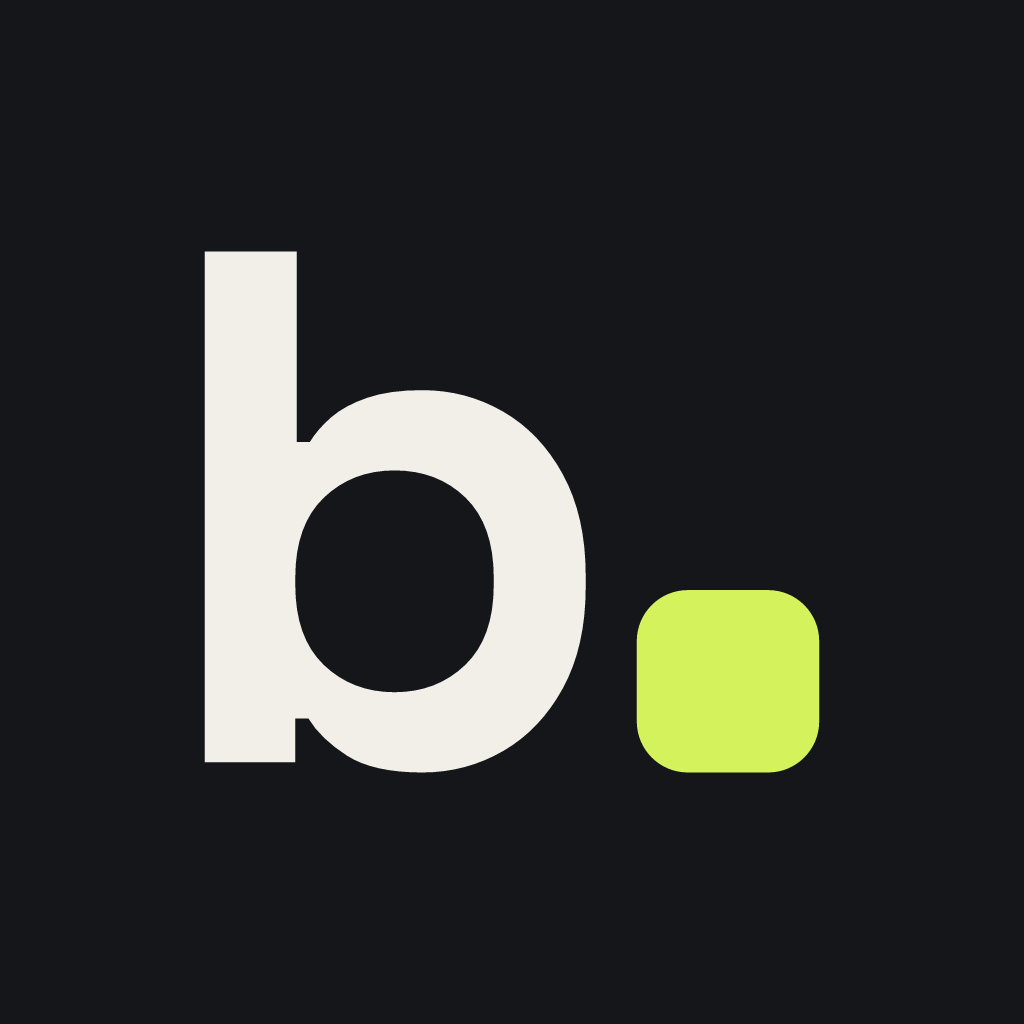
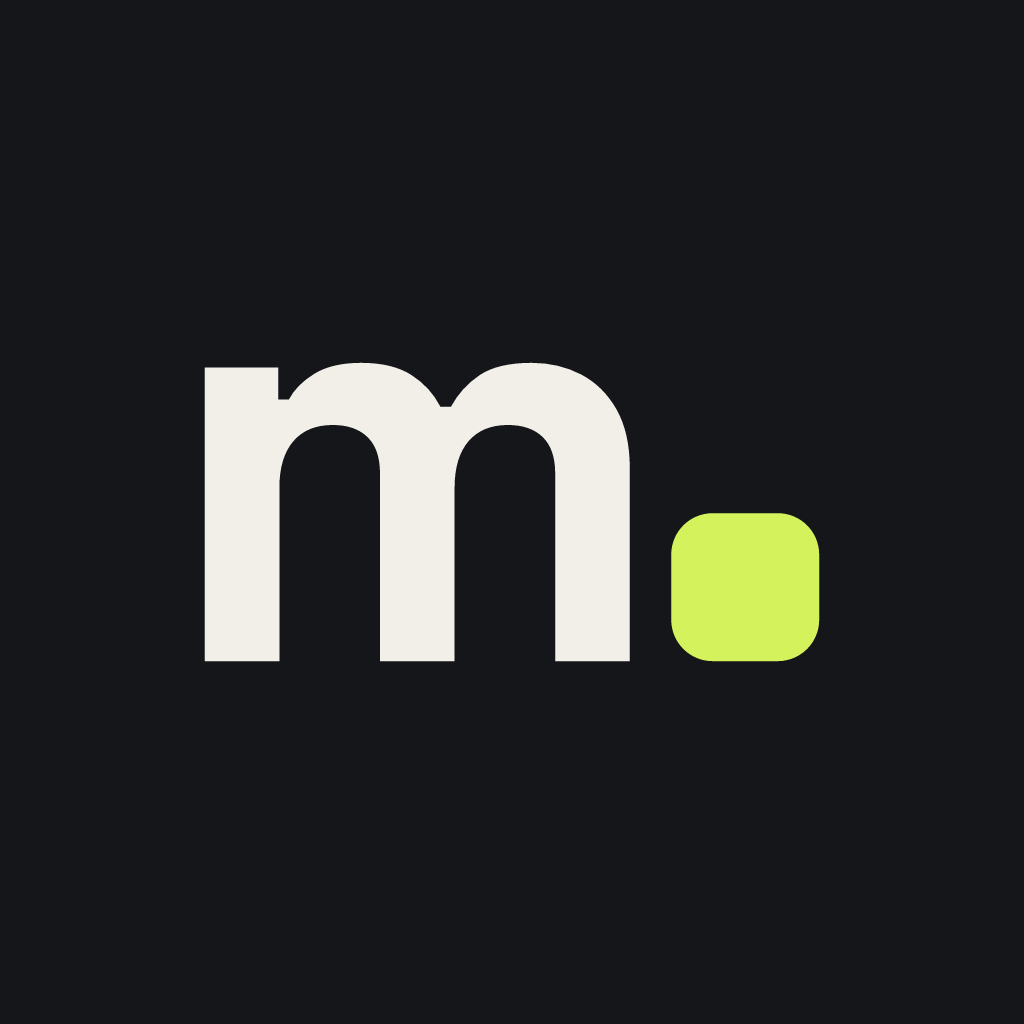
Renombrar a Multiwallet

Changed region(s): [[0.1875, 0.2188, 0.8125, 0.7812]]

diff --git a/terms.html b/terms.html
@@ -3,10 +3,10 @@
 <head>
 <meta charset="utf-8">
 <meta name="viewport" content="width=device-width, initial-scale=1">
-<title>Terms of Use · Buras</title>
-<meta name="title-en" content="Terms of Use · Buras">
-<meta name="title-es" content="Términos de uso · Buras">
-<meta name="description" content="Terms of use of the Buras app.">
+<title>Terms of Use · Multiwallet</title>
+<meta name="title-en" content="Terms of Use · Multiwallet">
+<meta name="title-es" content="Términos de uso · Multiwallet">
+<meta name="description" content="Terms of use of the Multiwallet app.">
 <link rel="icon" href="favicon.png">
 <link rel="preconnect" href="https://fonts.googleapis.com">
 <link rel="preconnect" href="https://fonts.gstatic.com" crossorigin>
@@ -17,7 +17,7 @@
 <body>
 <div class="wrap">
   <header class="site">
-    <a class="logo" href="./">buras</a>
+    <a class="logo" href="./">multiwallet</a>
     <nav>
       <a href="privacy.html"><span lang="en">Privacy</span><span lang="es">Privacidad</span></a>
       <a href="support.html"><span lang="en">Support</span><span lang="es">Soporte</span></a>
@@ -35,13 +35,13 @@
         <h1>Terms of Use</h1>
         <p class="meta">Effective date: November 3, 2026</p>
 
-        <p>These terms govern your use of the Buras app ("Buras", "the app"), developed by Nicolas Seura. By creating an account or using the app you accept them. If you downloaded Buras from the App Store, Apple's <a href="https://www.apple.com/legal/internet-services/itunes/dev/stdeula/">Standard End User License Agreement</a> also applies.</p>
+        <p>These terms govern your use of the Multiwallet app ("Multiwallet", "the app"), developed by Nicolas Seura. By creating an account or using the app you accept them. If you downloaded Multiwallet from the App Store, Apple's <a href="https://www.apple.com/legal/internet-services/itunes/dev/stdeula/">Standard End User License Agreement</a> also applies.</p>
 
         <h2>1. The service</h2>
-        <p>Buras is a tool to record and organise your personal finances: accounts in several currencies, transactions, transfers, categories, budgets and spending plans. The app is currently free of charge.</p>
+        <p>Multiwallet is a tool to record and organise your personal finances: accounts in several currencies, transactions, transfers, categories, budgets and spending plans. The app is currently free of charge.</p>
 
         <h2>2. Not financial advice</h2>
-        <p>Buras is an organisational tool. Nothing in the app — including the suggested 50/30/20 split — is financial, tax or investment advice. Decisions about your money are yours.</p>
+        <p>Multiwallet is an organisational tool. Nothing in the app — including the suggested 50/30/20 split — is financial, tax or investment advice. Decisions about your money are yours.</p>
 
         <h2>3. Exchange rates and figures</h2>
         <p>Exchange rates come from a third-party provider, are updated daily and are shown for reference only; they may differ from the rates applied by your bank. All balances and statistics are calculated from the data you enter, so their accuracy depends on it.</p>
@@ -54,16 +54,16 @@
         </ul>
 
         <h2>5. Acceptable use</h2>
-        <p>Do not use Buras for illegal purposes, try to access other users' data, interfere with the service or reverse-engineer it. We may suspend accounts that break these rules.</p>
+        <p>Do not use Multiwallet for illegal purposes, try to access other users' data, interfere with the service or reverse-engineer it. We may suspend accounts that break these rules.</p>
 
         <h2>6. Your data</h2>
         <p>Your data belongs to you. How we handle it is explained in our <a href="privacy.html">Privacy Policy</a>.</p>
 
         <h2>7. Availability and changes</h2>
-        <p>We work to keep Buras available and reliable, but we cannot guarantee uninterrupted operation. We may update, change or discontinue features. If we ever discontinue the service, we will give reasonable notice so you can export or note down your data.</p>
+        <p>We work to keep Multiwallet available and reliable, but we cannot guarantee uninterrupted operation. We may update, change or discontinue features. If we ever discontinue the service, we will give reasonable notice so you can export or note down your data.</p>
 
         <h2>8. Liability</h2>
-        <p>Buras is provided "as is". To the extent permitted by law, we are not liable for indirect losses or for decisions made based on the information shown in the app. Nothing in these terms limits liability that cannot be limited by law, nor your rights as a consumer.</p>
+        <p>Multiwallet is provided "as is". To the extent permitted by law, we are not liable for indirect losses or for decisions made based on the information shown in the app. Nothing in these terms limits liability that cannot be limited by law, nor your rights as a consumer.</p>
 
         <h2>9. Changes to these terms</h2>
         <p>If we change these terms, we will update the date above and, for significant changes, notify you in the app.</p>
@@ -78,13 +78,13 @@
         <h1>Términos de uso</h1>
         <p class="meta">Fecha de entrada en vigor: 3 de noviembre de 2026</p>
 
-        <p>Estos términos regulan el uso de la app Buras («Buras», «la app»), desarrollada por Nicolas Seura. Al crear una cuenta o usar la app los aceptas. Si descargaste Buras desde la App Store, también se aplica el <a href="https://www.apple.com/legal/internet-services/itunes/dev/stdeula/">Contrato de licencia de usuario final estándar</a> de Apple.</p>
+        <p>Estos términos regulan el uso de la app Multiwallet («Multiwallet», «la app»), desarrollada por Nicolas Seura. Al crear una cuenta o usar la app los aceptas. Si descargaste Multiwallet desde la App Store, también se aplica el <a href="https://www.apple.com/legal/internet-services/itunes/dev/stdeula/">Contrato de licencia de usuario final estándar</a> de Apple.</p>
 
         <h2>1. El servicio</h2>
-        <p>Buras es una herramienta para registrar y organizar tus finanzas personales: cuentas en varias monedas, movimientos, transferencias, categorías, presupuestos y planes de gasto. Actualmente la app es gratuita.</p>
+        <p>Multiwallet es una herramienta para registrar y organizar tus finanzas personales: cuentas en varias monedas, movimientos, transferencias, categorías, presupuestos y planes de gasto. Actualmente la app es gratuita.</p>
 
         <h2>2. No es asesoramiento financiero</h2>
-        <p>Buras es una herramienta de organización. Nada de lo que muestra, incluido el reparto 50/30/20 sugerido, es asesoramiento financiero, fiscal ni de inversión. Las decisiones sobre tu dinero son tuyas.</p>
+        <p>Multiwallet es una herramienta de organización. Nada de lo que muestra, incluido el reparto 50/30/20 sugerido, es asesoramiento financiero, fiscal ni de inversión. Las decisiones sobre tu dinero son tuyas.</p>
 
         <h2>3. Tipos de cambio y cifras</h2>
         <p>Los tipos de cambio proceden de un proveedor externo, se actualizan a diario y son orientativos; pueden diferir de los que aplica tu banco. Todos los saldos y estadísticas se calculan con los datos que introduces, así que su exactitud depende de ellos.</p>
@@ -97,16 +97,16 @@
         </ul>
 
         <h2>5. Uso aceptable</h2>
-        <p>No uses Buras con fines ilegales, ni intentes acceder a datos de otros usuarios, interferir en el servicio o aplicarle ingeniería inversa. Podremos suspender las cuentas que incumplan estas normas.</p>
+        <p>No uses Multiwallet con fines ilegales, ni intentes acceder a datos de otros usuarios, interferir en el servicio o aplicarle ingeniería inversa. Podremos suspender las cuentas que incumplan estas normas.</p>
 
         <h2>6. Tus datos</h2>
         <p>Tus datos son tuyos. Cómo los tratamos se explica en nuestra <a href="privacy.html">Política de privacidad</a>.</p>
 
         <h2>7. Disponibilidad y cambios</h2>
-        <p>Trabajamos para que Buras esté disponible y funcione bien, pero no podemos garantizar un funcionamiento ininterrumpido. Podemos actualizar, cambiar o retirar funciones. Si algún día cerramos el servicio, avisaremos con antelación razonable para que puedas exportar o anotar tus datos.</p>
+        <p>Trabajamos para que Multiwallet esté disponible y funcione bien, pero no podemos garantizar un funcionamiento ininterrumpido. Podemos actualizar, cambiar o retirar funciones. Si algún día cerramos el servicio, avisaremos con antelación razonable para que puedas exportar o anotar tus datos.</p>
 
         <h2>8. Responsabilidad</h2>
-        <p>Buras se ofrece «tal cual». En la medida en que lo permita la ley, no respondemos de pérdidas indirectas ni de decisiones tomadas a partir de la información mostrada en la app. Nada en estos términos limita la responsabilidad que la ley no permite limitar, ni tus derechos como consumidor.</p>
+        <p>Multiwallet se ofrece «tal cual». En la medida en que lo permita la ley, no respondemos de pérdidas indirectas ni de decisiones tomadas a partir de la información mostrada en la app. Nada en estos términos limita la responsabilidad que la ley no permite limitar, ni tus derechos como consumidor.</p>
 
         <h2>9. Cambios en estos términos</h2>
         <p>Si cambiamos estos términos, actualizaremos la fecha de arriba y, si los cambios son importantes, te avisaremos en la app.</p>
@@ -118,7 +118,7 @@
     </article>
   </main>
 
-  <footer class="site">© 2026 Buras · <a href="mailto:ndigitalhr@gmail.com">ndigitalhr@gmail.com</a></footer>
+  <footer class="site">© 2026 Multiwallet · <a href="mailto:ndigitalhr@gmail.com">ndigitalhr@gmail.com</a></footer>
 </div>
 </body>
 </html>

diff --git a/privacy.html b/privacy.html
@@ -3,10 +3,10 @@
 <head>
 <meta charset="utf-8">
 <meta name="viewport" content="width=device-width, initial-scale=1">
-<title>Privacy Policy · Buras</title>
-<meta name="title-en" content="Privacy Policy · Buras">
-<meta name="title-es" content="Política de privacidad · Buras">
-<meta name="description" content="How Buras collects, uses and protects your data.">
+<title>Privacy Policy · Multiwallet</title>
+<meta name="title-en" content="Privacy Policy · Multiwallet">
+<meta name="title-es" content="Política de privacidad · Multiwallet">
+<meta name="description" content="How Multiwallet collects, uses and protects your data.">
 <link rel="icon" href="favicon.png">
 <link rel="preconnect" href="https://fonts.googleapis.com">
 <link rel="preconnect" href="https://fonts.gstatic.com" crossorigin>
@@ -17,7 +17,7 @@
 <body>
 <div class="wrap">
   <header class="site">
-    <a class="logo" href="./">buras</a>
+    <a class="logo" href="./">multiwallet</a>
     <nav>
       <a href="privacy.html" aria-current="page"><span lang="en">Privacy</span><span lang="es">Privacidad</span></a>
       <a href="support.html"><span lang="en">Support</span><span lang="es">Soporte</span></a>
@@ -35,12 +35,12 @@
         <h1>Privacy Policy</h1>
         <p class="meta">Effective date: November 3, 2026</p>
 
-        <p>Buras is a personal finance app that lets you track your accounts, transactions and budgets in several currencies. This policy explains what data we collect, why, and the rights you have over it. We wrote it to be short and clear.</p>
+        <p>Multiwallet is a personal finance app that lets you track your accounts, transactions and budgets in several currencies. This policy explains what data we collect, why, and the rights you have over it. We wrote it to be short and clear.</p>
 
         <div class="note"><strong>In short:</strong> we only store what you enter in the app so it can work. We don't sell your data, we don't show ads, we don't track you across other apps or websites, and you can delete your account and all its data from the app at any time.</div>
 
         <h2>1. Who is responsible for your data</h2>
-        <p>The data controller is <strong>Nicolas Seura</strong>, the developer of Buras, based in the European Union. Contact: <a href="mailto:ndigitalhr@gmail.com">ndigitalhr@gmail.com</a>.</p>
+        <p>The data controller is <strong>Nicolas Seura</strong>, the developer of Multiwallet, based in the European Union. Contact: <a href="mailto:ndigitalhr@gmail.com">ndigitalhr@gmail.com</a>.</p>
 
         <h2>2. What data we collect</h2>
         <div class="table-scroll"><table>
@@ -49,7 +49,7 @@
           <tr><td>Financial data you enter</td><td>Accounts and their currency, opening balances, transactions (amount, category, note, date), transfers and fees, categories, budgets and your monthly plan</td><td>To show your balances, statistics and budgets — the core of the app</td></tr>
           <tr><td>Preferences</td><td>Main currency, main account, language and appearance (light/dark)</td><td>To keep your settings across devices</td></tr>
         </table></div>
-        <p><strong>We do not collect:</strong> bank credentials or connections to your bank, location, contacts, photos, advertising identifiers or analytics/tracking data. Buras never accesses your real bank accounts — every figure is entered by you.</p>
+        <p><strong>We do not collect:</strong> bank credentials or connections to your bank, location, contacts, photos, advertising identifiers or analytics/tracking data. Multiwallet never accesses your real bank accounts — every figure is entered by you.</p>
         <p><strong>Stored only on your device:</strong> your session token (to keep you signed in), a cache of exchange rates, and display preferences such as the chart type.</p>
 
         <h2>3. Legal basis</h2>
@@ -80,7 +80,7 @@
         <p>All communication between the app and our servers is encrypted (HTTPS/TLS). Access rules in the database ensure that each user can only read and modify their own data.</p>
 
         <h2>8. Children</h2>
-        <p>Buras is not directed at children under 16, and we do not knowingly collect their data. If you believe a child has created an account, contact us and we will delete it.</p>
+        <p>Multiwallet is not directed at children under 16, and we do not knowingly collect their data. If you believe a child has created an account, contact us and we will delete it.</p>
 
         <h2>9. Changes to this policy</h2>
         <p>If we make significant changes, we will update the date above and notify you in the app. The current version is always available at this address.</p>
@@ -92,12 +92,12 @@
         <h1>Política de privacidad</h1>
         <p class="meta">Fecha de entrada en vigor: 3 de noviembre de 2026</p>
 
-        <p>Buras es una app de finanzas personales que te permite llevar tus cuentas, movimientos y presupuestos en varias monedas. Esta política explica qué datos recogemos, para qué y qué derechos tienes sobre ellos. La hemos escrito para que sea breve y clara.</p>
+        <p>Multiwallet es una app de finanzas personales que te permite llevar tus cuentas, movimientos y presupuestos en varias monedas. Esta política explica qué datos recogemos, para qué y qué derechos tienes sobre ellos. La hemos escrito para que sea breve y clara.</p>
 
         <div class="note"><strong>En resumen:</strong> solo guardamos lo que introduces en la app para que funcione. No vendemos tus datos, no mostramos publicidad, no te rastreamos en otras apps ni webs, y puedes borrar tu cuenta y todos sus datos desde la app cuando quieras.</div>
 
         <h2>1. Responsable del tratamiento</h2>
-        <p>El responsable es <strong>Nicolas Seura</strong>, desarrollador de Buras, con residencia en la Unión Europea. Contacto: <a href="mailto:ndigitalhr@gmail.com">ndigitalhr@gmail.com</a>.</p>
+        <p>El responsable es <strong>Nicolas Seura</strong>, desarrollador de Multiwallet, con residencia en la Unión Europea. Contacto: <a href="mailto:ndigitalhr@gmail.com">ndigitalhr@gmail.com</a>.</p>
 
         <h2>2. Qué datos recogemos</h2>
         <div class="table-scroll"><table>
@@ -106,7 +106,7 @@
           <tr><td>Datos financieros que introduces</td><td>Cuentas y su moneda, saldos iniciales, movimientos (importe, categoría, nota, fecha), transferencias y comisiones, categorías, presupuestos y tu plan mensual</td><td>Mostrar tus saldos, estadísticas y presupuestos: lo esencial de la app</td></tr>
           <tr><td>Preferencias</td><td>Moneda principal, cuenta principal, idioma y apariencia (claro/oscuro)</td><td>Mantener tus ajustes entre dispositivos</td></tr>
         </table></div>
-        <p><strong>No recogemos:</strong> credenciales ni conexiones con tu banco, ubicación, contactos, fotos, identificadores publicitarios ni datos de analítica o rastreo. Buras nunca accede a tus cuentas bancarias reales: todas las cifras las introduces tú.</p>
+        <p><strong>No recogemos:</strong> credenciales ni conexiones con tu banco, ubicación, contactos, fotos, identificadores publicitarios ni datos de analítica o rastreo. Multiwallet nunca accede a tus cuentas bancarias reales: todas las cifras las introduces tú.</p>
         <p><strong>Guardado solo en tu dispositivo:</strong> el token de sesión (para mantenerte conectado), una copia de los tipos de cambio y preferencias de visualización, como el tipo de gráfico.</p>
 
         <h2>3. Base legal</h2>
@@ -137,7 +137,7 @@
         <p>Toda la comunicación entre la app y nuestros servidores va cifrada (HTTPS/TLS). Las reglas de acceso de la base de datos garantizan que cada usuario solo puede leer y modificar sus propios datos.</p>
 
         <h2>8. Menores</h2>
-        <p>Buras no está dirigida a menores de 16 años y no recogemos sus datos a sabiendas. Si crees que un menor ha creado una cuenta, escríbenos y la eliminaremos.</p>
+        <p>Multiwallet no está dirigida a menores de 16 años y no recogemos sus datos a sabiendas. Si crees que un menor ha creado una cuenta, escríbenos y la eliminaremos.</p>
 
         <h2>9. Cambios en esta política</h2>
         <p>Si hacemos cambios importantes, actualizaremos la fecha de arriba y te avisaremos en la app. La versión vigente está siempre disponible en esta dirección.</p>
@@ -146,7 +146,7 @@
     </article>
   </main>
 
-  <footer class="site">© 2026 Buras · <a href="mailto:ndigitalhr@gmail.com">ndigitalhr@gmail.com</a></footer>
+  <footer class="site">© 2026 Multiwallet · <a href="mailto:ndigitalhr@gmail.com">ndigitalhr@gmail.com</a></footer>
 </div>
 </body>
 </html>

diff --git a/support.html b/support.html
@@ -3,10 +3,10 @@
 <head>
 <meta charset="utf-8">
 <meta name="viewport" content="width=device-width, initial-scale=1">
-<title>Support · Buras</title>
-<meta name="title-en" content="Support · Buras">
-<meta name="title-es" content="Soporte · Buras">
-<meta name="description" content="Help and contact for the Buras app.">
+<title>Support · Multiwallet</title>
+<meta name="title-en" content="Support · Multiwallet">
+<meta name="title-es" content="Soporte · Multiwallet">
+<meta name="description" content="Help and contact for the Multiwallet app.">
 <link rel="icon" href="favicon.png">
 <link rel="preconnect" href="https://fonts.googleapis.com">
 <link rel="preconnect" href="https://fonts.gstatic.com" crossorigin>
@@ -17,7 +17,7 @@
 <body>
 <div class="wrap">
   <header class="site">
-    <a class="logo" href="./">buras</a>
+    <a class="logo" href="./">multiwallet</a>
     <nav>
       <a href="privacy.html"><span lang="en">Privacy</span><span lang="es">Privacidad</span></a>
       <a href="support.html" aria-current="page"><span lang="en">Support</span><span lang="es">Soporte</span></a>
@@ -34,13 +34,13 @@
         <span class="label">Help</span>
         <h1>Support</h1>
         <p>Have a question, found a bug or have an idea? Write to us and we'll get back to you, usually within 48 hours.</p>
-        <p><a class="btn" href="mailto:ndigitalhr@gmail.com?subject=Buras%20support">✉ ndigitalhr@gmail.com</a></p>
+        <p><a class="btn" href="mailto:ndigitalhr@gmail.com?subject=Multiwallet%20support">✉ ndigitalhr@gmail.com</a></p>
         <p class="meta">Tip: tell us your iPhone model, iOS version and the steps that led to the problem.</p>
 
         <h2>Frequently asked questions</h2>
         <details>
-          <summary>Does Buras connect to my bank?</summary>
-          <p>No. Buras never accesses your bank. You add your accounts and transactions yourself, so your banking credentials are never shared.</p>
+          <summary>Does Multiwallet connect to my bank?</summary>
+          <p>No. Multiwallet never accesses your bank. You add your accounts and transactions yourself, so your banking credentials are never shared.</p>
         </details>
         <details>
           <summary>How do accounts in different currencies work?</summary>
@@ -59,7 +59,7 @@
           <p>Go to <em>Settings → Preferences</em>. Your choices are saved to your account and follow you to other devices.</p>
         </details>
         <details>
-          <summary>Can I use Buras on more than one device?</summary>
+          <summary>Can I use Multiwallet on more than one device?</summary>
           <p>Yes. Sign in with the same account and your data syncs automatically.</p>
         </details>
         <details>
@@ -77,13 +77,13 @@
         <span class="label">Ayuda</span>
         <h1>Soporte</h1>
         <p>¿Tienes una pregunta, encontraste un error o tienes una idea? Escríbenos y te responderemos, normalmente en menos de 48 horas.</p>
-        <p><a class="btn" href="mailto:ndigitalhr@gmail.com?subject=Soporte%20Buras">✉ ndigitalhr@gmail.com</a></p>
+        <p><a class="btn" href="mailto:ndigitalhr@gmail.com?subject=Soporte%20Multiwallet">✉ ndigitalhr@gmail.com</a></p>
         <p class="meta">Consejo: indícanos tu modelo de iPhone, la versión de iOS y los pasos que llevaron al problema.</p>
 
         <h2>Preguntas frecuentes</h2>
         <details>
-          <summary>¿Buras se conecta a mi banco?</summary>
-          <p>No. Buras nunca accede a tu banco. Tú añades tus cuentas y movimientos, así que tus claves bancarias nunca se comparten.</p>
+          <summary>¿Multiwallet se conecta a mi banco?</summary>
+          <p>No. Multiwallet nunca accede a tu banco. Tú añades tus cuentas y movimientos, así que tus claves bancarias nunca se comparten.</p>
         </details>
         <details>
           <summary>¿Cómo funcionan las cuentas en distintas monedas?</summary>
@@ -102,7 +102,7 @@
           <p>En <em>Ajustes → Preferencias</em>. Tus elecciones se guardan en tu cuenta y te acompañan en otros dispositivos.</p>
         </details>
         <details>
-          <summary>¿Puedo usar Buras en más de un dispositivo?</summary>
+          <summary>¿Puedo usar Multiwallet en más de un dispositivo?</summary>
           <p>Sí. Inicia sesión con la misma cuenta y tus datos se sincronizan solos.</p>
         </details>
         <details>
@@ -118,7 +118,7 @@
     </article>
   </main>
 
-  <footer class="site">© 2026 Buras · <a href="privacy.html"><span lang="en">Privacy</span><span lang="es">Privacidad</span></a> · <a href="terms.html"><span lang="en">Terms</span><span lang="es">Términos</span></a></footer>
+  <footer class="site">© 2026 Multiwallet · <a href="privacy.html"><span lang="en">Privacy</span><span lang="es">Privacidad</span></a> · <a href="terms.html"><span lang="en">Terms</span><span lang="es">Términos</span></a></footer>
 </div>
 </body>
 </html>

diff --git a/index.html b/index.html
@@ -3,10 +3,10 @@
 <head>
 <meta charset="utf-8">
 <meta name="viewport" content="width=device-width, initial-scale=1">
-<title>Buras · Your money, in all your currencies</title>
-<meta name="title-en" content="Buras · Your money, in all your currencies">
-<meta name="title-es" content="Buras · Tu dinero, en todas tus monedas">
-<meta name="description" content="Buras is a personal finance app for accounts in several currencies: balances, transfers with fees, budgets and monthly plans.">
+<title>Multiwallet · Your money, in all your currencies</title>
+<meta name="title-en" content="Multiwallet · Your money, in all your currencies">
+<meta name="title-es" content="Multiwallet · Tu dinero, en todas tus monedas">
+<meta name="description" content="Multiwallet is a personal finance app for accounts in several currencies: balances, transfers with fees, budgets and monthly plans.">
 <link rel="icon" href="favicon.png">
 <link rel="apple-touch-icon" href="icon.png">
 <link rel="preconnect" href="https://fonts.googleapis.com">
@@ -18,7 +18,7 @@
 <body>
 <div class="wrap">
   <header class="site">
-    <a class="logo" href="./">buras</a>
+    <a class="logo" href="./">multiwallet</a>
     <nav>
       <a href="privacy.html"><span lang="en">Privacy</span><span lang="es">Privacidad</span></a>
       <a href="support.html"><span lang="en">Support</span><span lang="es">Soporte</span></a>
@@ -29,9 +29,9 @@
 
   <main>
     <section class="hero">
-      <img src="icon.png" alt="Buras">
+      <img src="icon.png" alt="Multiwallet">
       <div>
-        <h1>buras</h1>
+        <h1>multiwallet</h1>
         <p class="meta" lang="en">Your money, in all your currencies.</p>
         <p class="meta" lang="es">Tu dinero, en todas tus monedas.</p>
       </div>
@@ -40,7 +40,7 @@
     <div class="card">
       <div lang="en">
         <span class="label">About</span>
-        <p>Buras is a personal finance app built for people whose money lives in more than one currency. Keep accounts in Chilean pesos, euros, dollars and 50+ other currencies, see your total net worth in the currency you choose, record transfers with their real exchange rate and fees, and plan your month with the 50/30/20 rule.</p>
+        <p>Multiwallet is a personal finance app built for people whose money lives in more than one currency. Keep accounts in Chilean pesos, euros, dollars and 50+ other currencies, see your total net worth in the currency you choose, record transfers with their real exchange rate and fees, and plan your month with the 50/30/20 rule.</p>
         <ul>
           <li>Accounts in 59 currencies with daily exchange rates</li>
           <li>Transfers between accounts with fees</li>
@@ -50,8 +50,8 @@
         </ul>
       </div>
       <div lang="es">
-        <span class="label">Sobre Buras</span>
-        <p>Buras es una app de finanzas personales pensada para quien tiene su dinero en más de una moneda. Lleva cuentas en pesos chilenos, euros, dólares y más de 50 monedas, mira tu patrimonio total en la moneda que elijas, registra transferencias con su cambio real y sus comisiones, y planifica tu mes con la regla 50/30/20.</p>
+        <span class="label">Sobre Multiwallet</span>
+        <p>Multiwallet es una app de finanzas personales pensada para quien tiene su dinero en más de una moneda. Lleva cuentas en pesos chilenos, euros, dólares y más de 50 monedas, mira tu patrimonio total en la moneda que elijas, registra transferencias con su cambio real y sus comisiones, y planifica tu mes con la regla 50/30/20.</p>
         <ul>
           <li>Cuentas en 59 monedas con tipos de cambio diarios</li>
           <li>Transferencias entre cuentas con comisiones</li>
@@ -73,12 +73,12 @@
       </a>
       <a href="terms.html">
         <strong lang="en">Terms of Use</strong><strong lang="es">Términos de uso</strong>
-        <span lang="en">Rules for using Buras</span><span lang="es">Normas de uso de Buras</span>
+        <span lang="en">Rules for using Multiwallet</span><span lang="es">Normas de uso de Multiwallet</span>
       </a>
     </div>
   </main>
 
-  <footer class="site">© 2026 Buras · <a href="mailto:ndigitalhr@gmail.com">ndigitalhr@gmail.com</a></footer>
+  <footer class="site">© 2026 Multiwallet · <a href="mailto:ndigitalhr@gmail.com">ndigitalhr@gmail.com</a></footer>
 </div>
 </body>
 </html>

diff --git a/style.css b/style.css
@@ -1,4 +1,4 @@
-/* Buras — sitio legal y de soporte. Mismos colores que la app. */
+/* Multiwallet — sitio legal y de soporte. Mismos colores que la app. */
 :root {
   --bg: #F3F0E8;
   --card: #FFFFFF;
